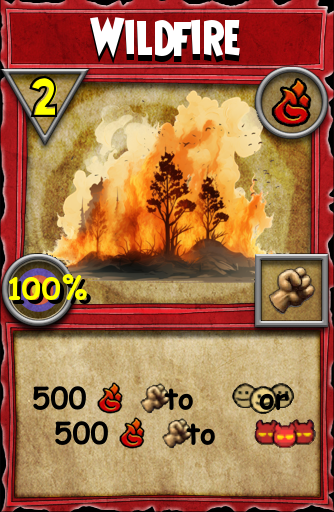
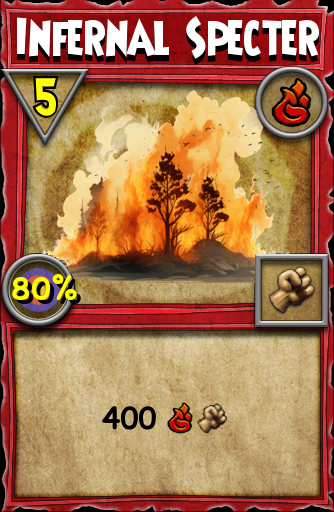
updated pip cost function, save text form data, automatic spaces between symbols

Changed region(s): [[0.0299, 0.0312, 0.9581, 0.25], [0.0898, 0.75, 0.9581, 0.875], [0.0299, 0.5312, 0.2695, 0.5938]]

diff --git a/templates/index.html b/templates/index.html
@@ -179,13 +179,13 @@
                 <option value="Lunar">Lunar</option>
             </select><br>
             <label for="cardname">Card Name:</label>
-            <input type="text" id="cardname" name="cardname" placeholder="Card Name" required class="form-field"><br>
+            <input type="text" id="cardname" name="cardname" placeholder="Card Name" required class="form-field" value="{{ card_name if card_name else '' }}"><br>
             <label for="cost">Pip Cost (0-9):</label>
             <select id="cost" name="cost" required class="form-field">
-                {% for i in range(10) %}
+                <option value="X">X</option>
+                {% for i in range(15) %}
                     <option value="{{ i }}">{{ i }}</option>
                 {% endfor %}
-                <option value="X">X</option>
             </select><br>
             <label for="type">Card Type:</label>
             <select id="type" name="type" required class="form-field">
@@ -204,9 +204,9 @@
                 <!-- <option value="Shadow">Shadow</option> -->
             </select><br>
             <label for="image">Card Art:</label>
-            <input type="text" name="image" id="image" placeholder="Enter an image URL" required class="form-field"><br>
+            <input type="text" name="image" id="image" placeholder="Enter an image URL" required class="form-field" value="{{ card_image if card_image else '' }}"><br>
             <label for="bodyText">Main Text:</label>
-            <textarea id="bodyText" name="body" placeholder="Type the desired card effects and click below to insert icons" required class="form-field" style="resize: none;"></textarea>
+            <textarea id="bodyText" name="body" placeholder="Type the desired card effects and click below to insert icons" required class="form-field" style="resize: none;">{{ card_body if card_body else '' }}</textarea>
 
             <div id="iconBar">
                 <img src="CardIcons/Icon_Fire.png" alt="Fire" class="icon-button" onclick="addSymbol('❶❶')" />
@@ -258,7 +258,7 @@
             <div class="slidecontainer">
                 <!-- <label for="accuracy">Accuracy (0-100):</label> -->
                 <p>Accuracy: <span id="slider-output"></span></p>
-                <input type="range" min="0" max="100" value="100" name="accuracy" class="slider" id="accuracy">
+                <input type="range" min="0" max="100" value="{{ accuracy if card_accuracy else 100 }}" name="accuracy" class="slider" id="accuracy">
             </div>
             <br>
 
@@ -278,9 +278,9 @@
             const endPos = textArea.selectionEnd;
             const text = textArea.value;
 
-            textArea.value = text.slice(0, startPos) + symbol + text.slice(endPos);
+            textArea.value = text.slice(0, startPos) + " " + symbol + " " + text.slice(endPos);
             textArea.focus();
-            textArea.selectionStart = textArea.selectionEnd = startPos + symbol.length;
+            textArea.selectionStart = textArea.selectionEnd = startPos + symbol.length + 2;
         }
         var slider = document.getElementById("accuracy");
         var output = document.getElementById("slider-output");

diff --git a/flask_app.py b/flask_app.py
@@ -9,6 +9,11 @@ app = Flask(__name__, static_url_path='', static_folder='.')
 def index():
     inputCardName = ""
     inputCardSchool = ""
+    inputPipCost = ""
+    inputType = ""
+    inputImage = ""
+    inputBodyText = ""
+
     if request.method == 'POST':
         inputCardSchool = request.form.get('school')
         inputCardName = request.form.get('cardname')
@@ -30,10 +35,12 @@ def index():
 
         finalize()
 
-    return render_template('index.html', card_name=inputCardName, card_school=inputCardSchool)
+        return render_template('index.html', card_name=inputCardName, card_school=inputCardSchool, card_cost=inputPipCost, card_type=inputType, card_image=inputImage, card_body=inputBodyText)
+
+    return render_template('index.html')
 
 
 if __name__ == '__main__':
-    #app.run(debug=True)
-    from waitress import serve
-    serve(app, host="0.0.0.0", port=8080)
+    app.run(debug=True)
+    #from waitress import serve
+    #serve(app, host="0.0.0.0", port=8080)

diff --git a/card_components.py b/card_components.py
@@ -78,6 +78,10 @@ def add_cost(pipCost: str):
         imageWithText.text(pipCostLocation, pipCostString, font=pipFont1, fill=(255, 255, 0))
         imageWithText.text((pipCostLocation[0] - 1, pipCostLocation[1] - 6), pipCostString, font=pipFont2,
                            fill=(0, 0, 0), stroke_width=0)
+    elif int(pipCost) <= 14:
+        pipCostLocation = (23, 62)
+        imageWithText.text(pipCostLocation, pipCostString, font=pipFont1, fill=(0, 0, 0), stroke_width=3)
+        imageWithText.text(pipCostLocation, pipCostString, font=pipFont1, fill=(255, 255, 0))
     else:
         print("That is an invalid pip cost. Must be a whole number from 0-9 or X")
         exit()
@@ -130,7 +134,7 @@ def add_body(bodyText: str):
             case 3:
                 y_text = 355
             case 4:
-                y_text = 335
+                y_text = 338
 
         for line in lines:
             fakeLine = ""  # For constructing the line with symbols replaced
